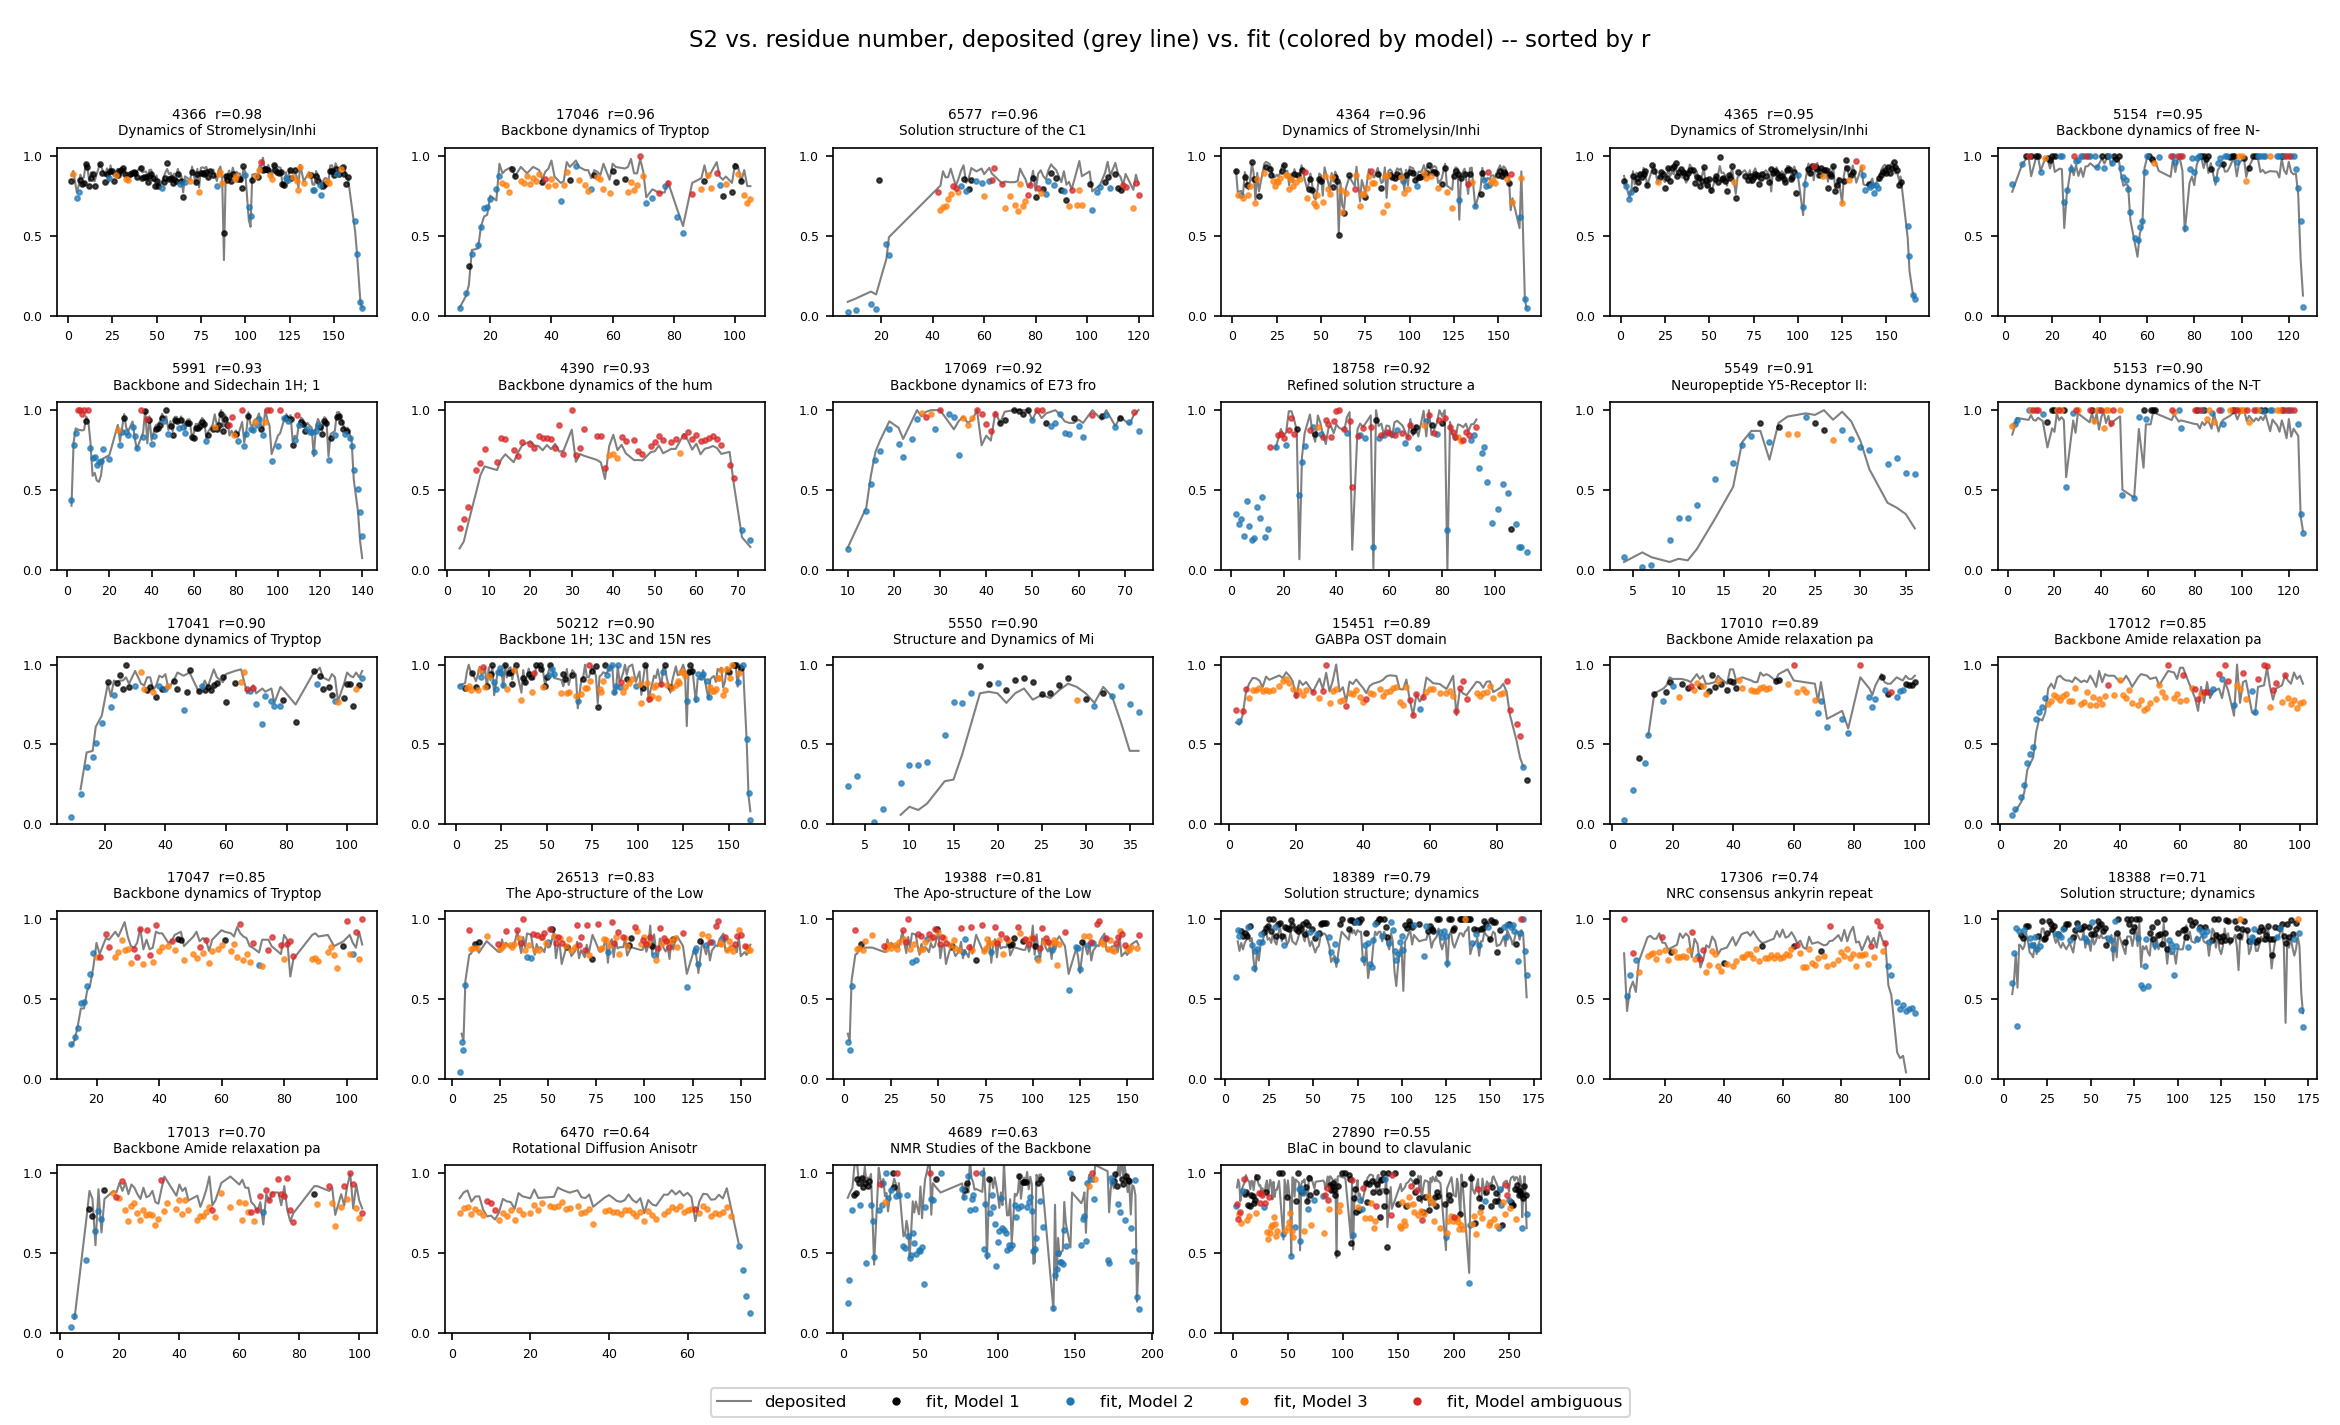
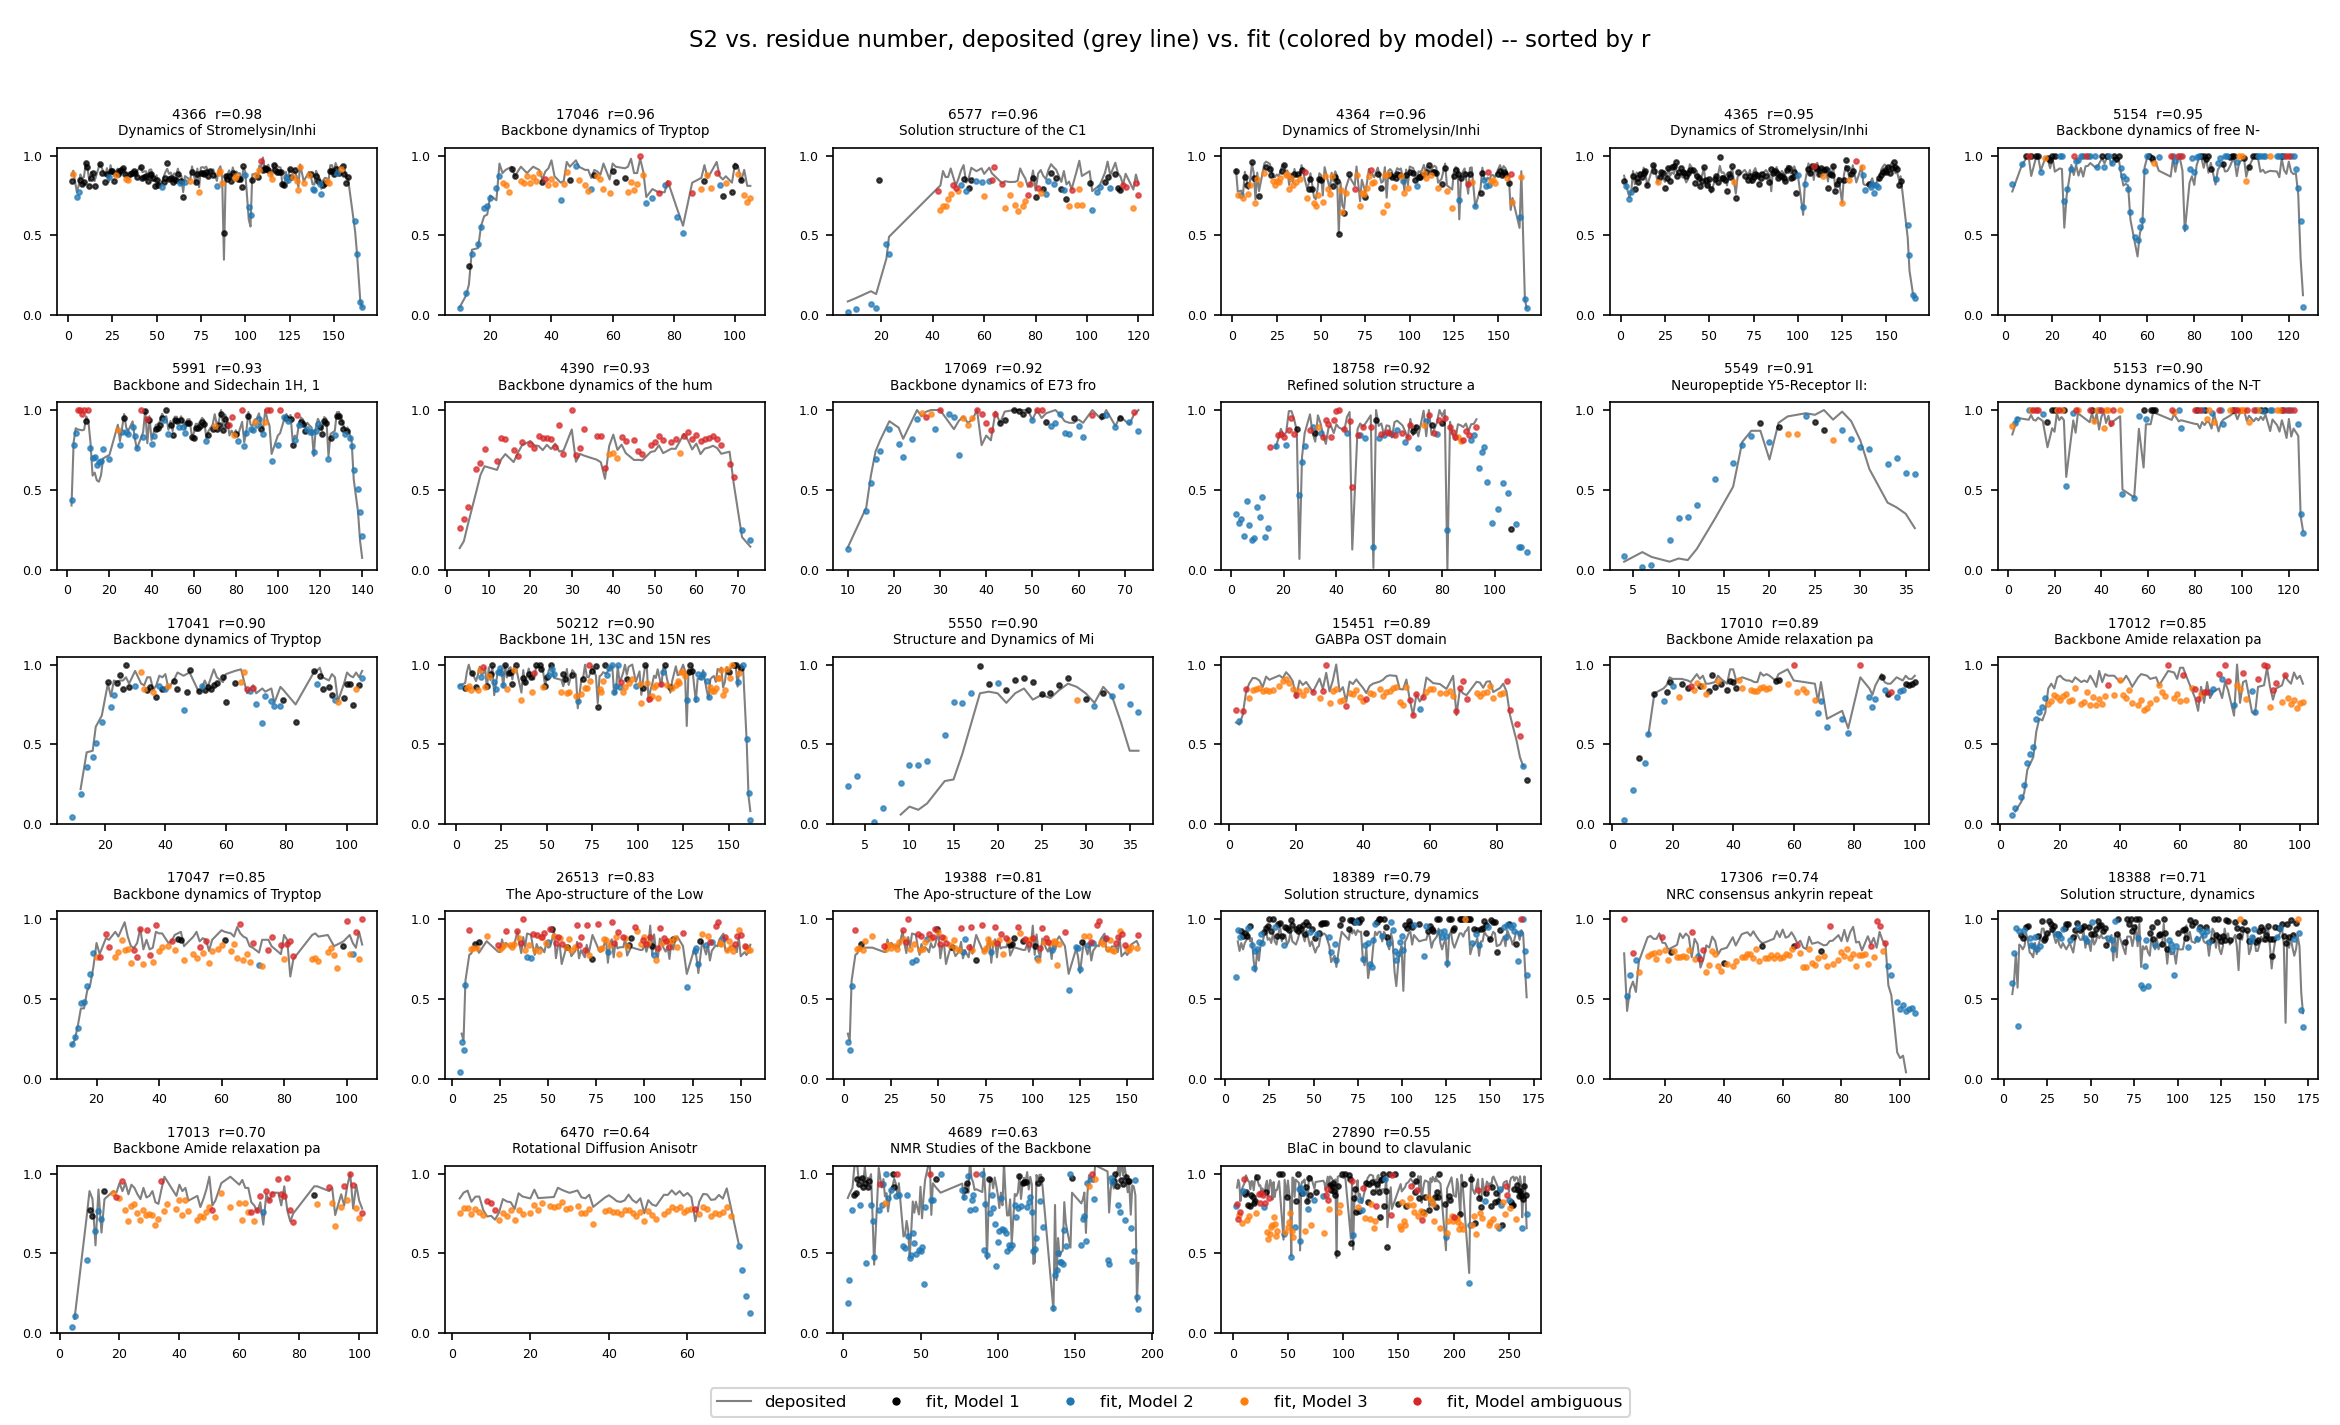
Warn when a fetched structure is missing biological-assembly chains
Found the actual structural root cause behind BMRB 17012's (and
17010/17013's) implausibly high Model-3 fraction: the resolved PDB
(3WRP) is only the crystallographic asymmetric unit. RCSB's own
pdbx_struct_assembly.oligomeric_count says the biological assembly is
dimeric, but the file has one chain -- the second protomer is only
implied by a BIOMT symmetry transform this codebase never applies. Trp
repressor is a constitutive homodimer; modeling it as a monomer gives
HYDRONMR the wrong diffusion tensor size and shape, which the rate-only
tensor calibration can't correct by design (shape_bounds=(1.0, 1.0)).

RelaxationProfile._check_biological_assembly (called from _resolve_pdb
for source="rcsb") checks the resolved structure's chain count against
RCSB's own assembly metadata -- one lightweight API call, same pattern
_best_pdb_by_length already uses -- and warns on a mismatch rather than
silently building the wrong tensor.

Verified: fires only for 3WRP among all 28 BMRB validation entries, and
stays silent for confirmed-monomeric structures (1D3Z/ubiquitin,
2L6B/ankyrin repeat, 2JUO/GABPa). Also confirmed it's not the whole
story -- 17046/17047 use a correctly-complete dimer (2XDI, both chains)
and still show elevated Model-3 fractions, likely a separate,
harder-to-fix bead-model accuracy issue for multi-chain assemblies (see
docs/order_parameters_validation.md).

diff --git a/makeshift/relaxation/relax_profile.py b/makeshift/relaxation/relax_profile.py
@@ -427,6 +427,12 @@ class RelaxationProfile:
         polymer size actually matches this entry's sequence, since a long
         candidate list usually means no curated link and a size mismatch
         indicates a fusion/complex structure rather than this construct.
+
+        For an `source="rcsb"` structure, `_check_biological_assembly`
+        also warns if the fetched file is missing chains RCSB's own
+        metadata says the biological assembly needs (e.g. a homodimer
+        deposited as a single-chain asymmetric unit) -- see that
+        method's docstring for why this matters for the diffusion tensor.
         """
         from ..utils.structures import fetch_structure
 
@@ -460,7 +466,78 @@ class RelaxationProfile:
                 )
             print(f"  no pdb given; using {source} structure {pdb}")
 
-        return fetch_structure(pdb, source=source, **fetch_kw)
+        structure_path = fetch_structure(pdb, source=source, **fetch_kw)
+        if source == "rcsb":
+            self._check_biological_assembly(pdb, structure_path)
+        return structure_path
+
+    @staticmethod
+    def _check_biological_assembly(pdb_id, structure_path):
+        """
+        Warn if `pdb_id`'s biological assembly (RCSB's own
+        `pdbx_struct_assembly.oligomeric_count`) needs more protein chains
+        than `structure_path` actually contains -- e.g. a homodimer
+        deposited with only the crystallographic asymmetric unit (one
+        protomer) in the downloaded file, the rest of the complex only
+        implied by a BIOMT symmetry transform this code never applies.
+
+        This matters because modeling a real oligomer as its lone
+        protomer gives HYDRONMR the wrong diffusion tensor *size and
+        shape* -- not something `model_free.calibrate_tensor`'s rate-only
+        calibration (shape_bounds defaults to (1.0, 1.0), see that
+        function's docstring) can correct, since it deliberately doesn't
+        reshape the tensor. Found by hand on BMRB 17012 (Trp repressor,
+        a constitutive homodimer): the resolved structure 3WRP has
+        `oligomeric_count=2` but only chain A in the file, and every
+        other Trp-repressor validation entry (a well-known dimer) shows
+        the same elevated, spurious Model-3/Rex rate this causes (see
+        docs/order_parameters_validation.md) -- the tensor calibration
+        silently absorbs the size/shape error into a persistent
+        R1-vs-R2 tension that then contaminates the per-residue Rex test.
+
+        Silently no-ops if the RCSB lookup fails (e.g. `pdb_id` isn't a
+        real RCSB entry) or the structure file can't be read -- this is
+        advisory, not required for the fit to proceed.
+        """
+        import json
+        import urllib.request
+
+        try:
+            url = f"https://data.rcsb.org/rest/v1/core/assembly/{pdb_id}/1"
+            with urllib.request.urlopen(url, timeout=10) as resp:
+                info = json.load(resp)
+            assembly = info.get("pdbx_struct_assembly", {})
+            oligomeric_count = assembly.get("oligomeric_count")
+            oligomeric_details = assembly.get("oligomeric_details")
+        except Exception:
+            return
+        if not oligomeric_count or oligomeric_count <= 1:
+            return
+
+        try:
+            chains = set()
+            with open(structure_path) as f:
+                for line in f:
+                    if line.startswith(("ATOM", "HETATM")):
+                        chains.add(line[21])
+        except Exception:
+            return
+
+        if len(chains) < oligomeric_count:
+            warnings.warn(
+                f"{pdb_id}'s biological assembly is {oligomeric_details} "
+                f"({oligomeric_count} chains), but the fetched structure "
+                f"only has {len(chains)} ({sorted(chains)}) -- likely just "
+                "the crystallographic asymmetric unit, with the rest of "
+                "the complex only implied by a symmetry transform this "
+                "code doesn't apply. Modeling this as a "
+                f"{len(chains)}-chain structure gives HYDRONMR the wrong "
+                "diffusion tensor size/shape for a real oligomer, which "
+                "the model-free fit's rate-only calibration can't "
+                "correct -- consider passing pdb=<a structure that "
+                "already includes the full assembly>.",
+                UserWarning,
+            )
 
     def _detect_field_mhz(self):
         """

diff --git a/docs/order_parameters_validation.md b/docs/order_parameters_validation.md
@@ -183,6 +183,50 @@ degenerate tau_e. Across the full RelaxDB set this triggers rarely (13
 of 3330 Model-2 residues, across 9 of 119 fit entries) -- most
 boundary-adjacent cases turn out to be genuine, not degenerate.
 
+**6. A biased calibration inflates Model 3 (Rex) selection, and one
+family of entries had the wrong oligomeric structure entirely.**
+15 of the 28 validation entries have >20% of residues assigned Model 3
+-- implausibly widespread real chemical exchange (e.g. 6470/ubiquitin at
+88%, a famously rigid, extensively studied protein). Root cause: the
+Rex test (`fit_residue`'s r2_flag) compares observed R2 against
+`S2_from_R1 * R2_rigid`, but `S2_from_R1` inherits the same R1-vs-R2
+tension `assess_calibration`'s `gap` already measures -- and unlike the
+0.3 "unreliable" threshold, even a *mild* gap (0.07-0.23, well under
+that threshold) is enough to make most of a protein's residues look
+falsely R2-excess. Checked directly: median(implied Rex / R2_rigid)
+across every residue in an entry tracks that entry's calibration gap
+almost exactly (e.g. 6470: gap=+0.225, ratio=+0.218) -- the signature of
+a protein-wide bias, not per-residue exchange. Not yet fixed (candidate
+fix: correct the Rex-test baseline by the measured gap before testing
+for excess).
+
+Separately, for BMRB 17012 (and 17010, 17013 -- all Trp repressor
+mutants), the *structural* cause is more fundamental: the resolved PDB
+(3WRP) is only the crystallographic asymmetric unit -- RCSB's own
+`pdbx_struct_assembly.oligomeric_count=2` says the biological assembly
+is dimeric, but the file has just one chain, with the second protomer
+only implied by a BIOMT symmetry transform this code never applies.
+Trp repressor is a constitutive homodimer; modeling it as a monomer
+gives HYDRONMR the wrong diffusion tensor size *and shape*, which the
+rate-only calibration (`shape_bounds=(1.0, 1.0)`, see
+`model_free.calibrate_tensor`) can't correct by design.
+`RelaxationProfile._check_biological_assembly` now warns whenever a
+`source="rcsb"` structure is missing chains the assembly needs (a
+single lightweight RCSB API call, checked against the resolved
+structure's own chain count) -- confirmed to fire only for 3WRP among
+all 28 entries, and to stay silent for every correctly-monomeric
+structure checked (1D3Z/ubiquitin, 2L6B/ankyrin repeat, 2JUO/GABPa).
+
+That still doesn't fully explain the pattern, though: 17046 and 17047
+(the other two Trp-repressor mutants) resolve to a *correctly* complete
+dimer (2XDI, both chains present) and still show 47-51% Model 3, with
+unusually large tau_scale corrections (~2.0-2.1x, vs ~1-1.5x typical for
+monomeric entries) that don't track their calibration gap as cleanly as
+the monomeric cases did. That looks like a separate, harder problem --
+the uniform-bead hydrodynamic approximation may simply be less accurate
+for larger multi-chain assemblies than for compact single domains, not
+something a data/structure-resolution fix can address. Left open.
+
 ## Reproducing this validation
 
 `demos/s2_validation/validate_s2.py` fits every entry in its `ENTRIES`
